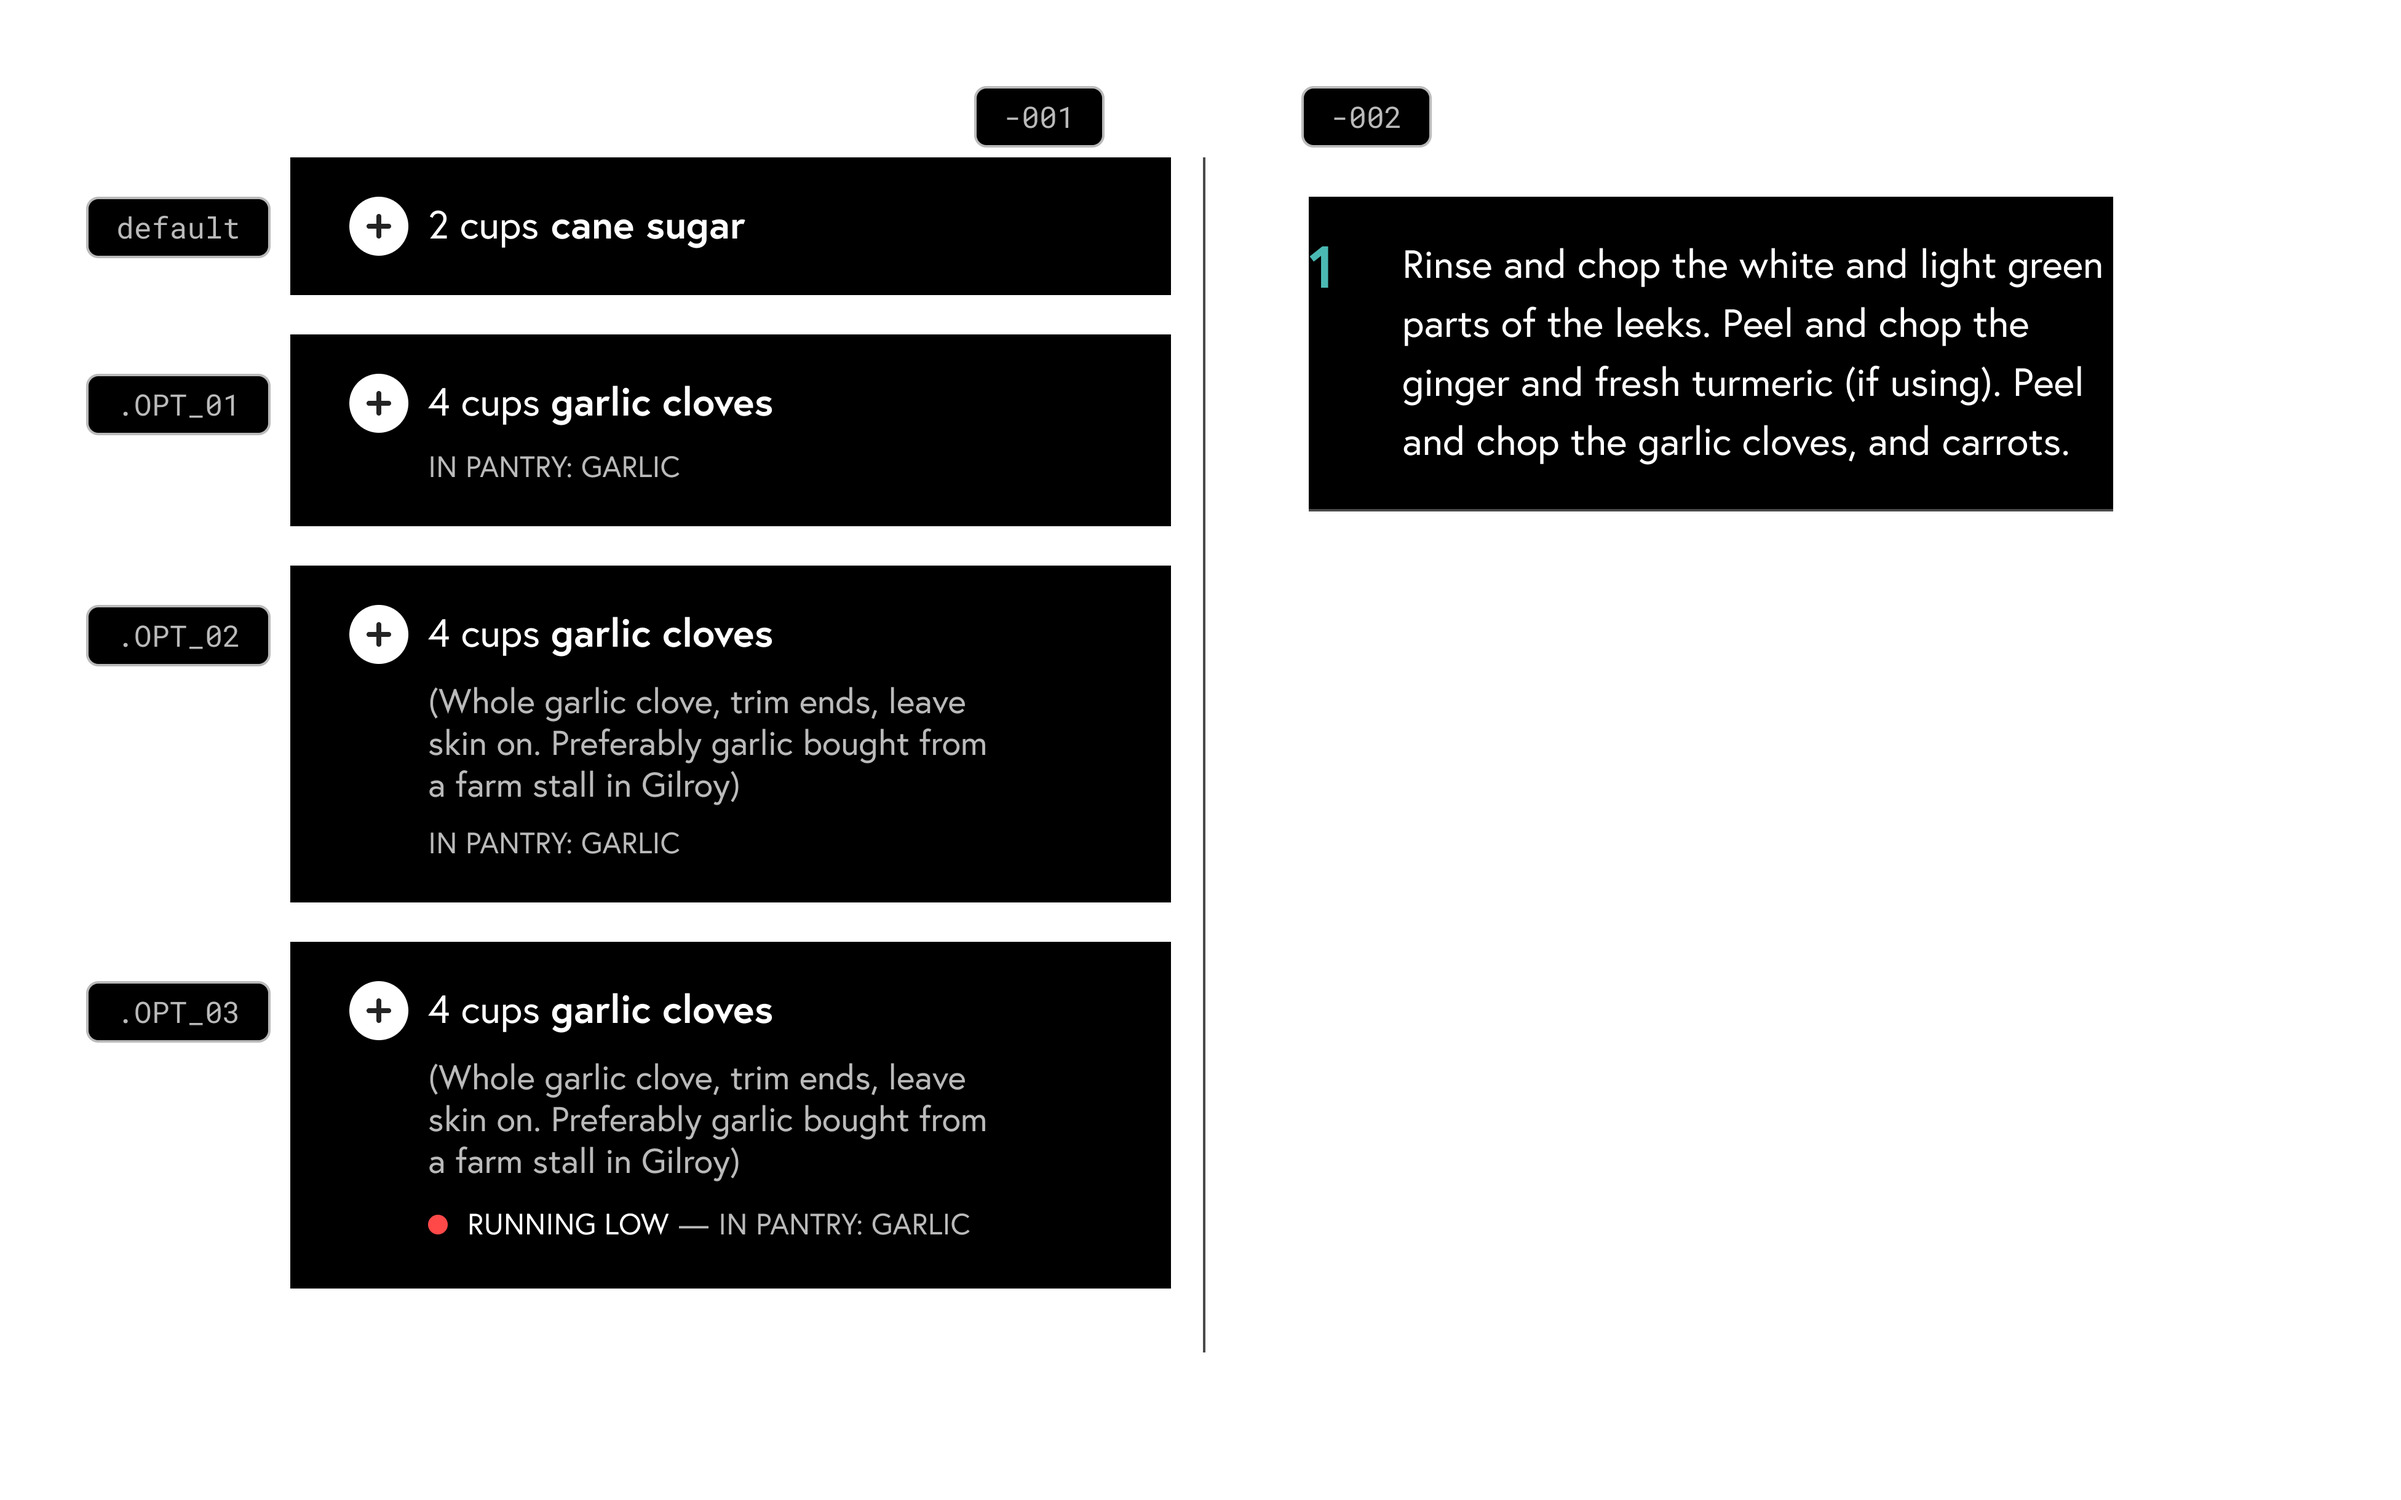
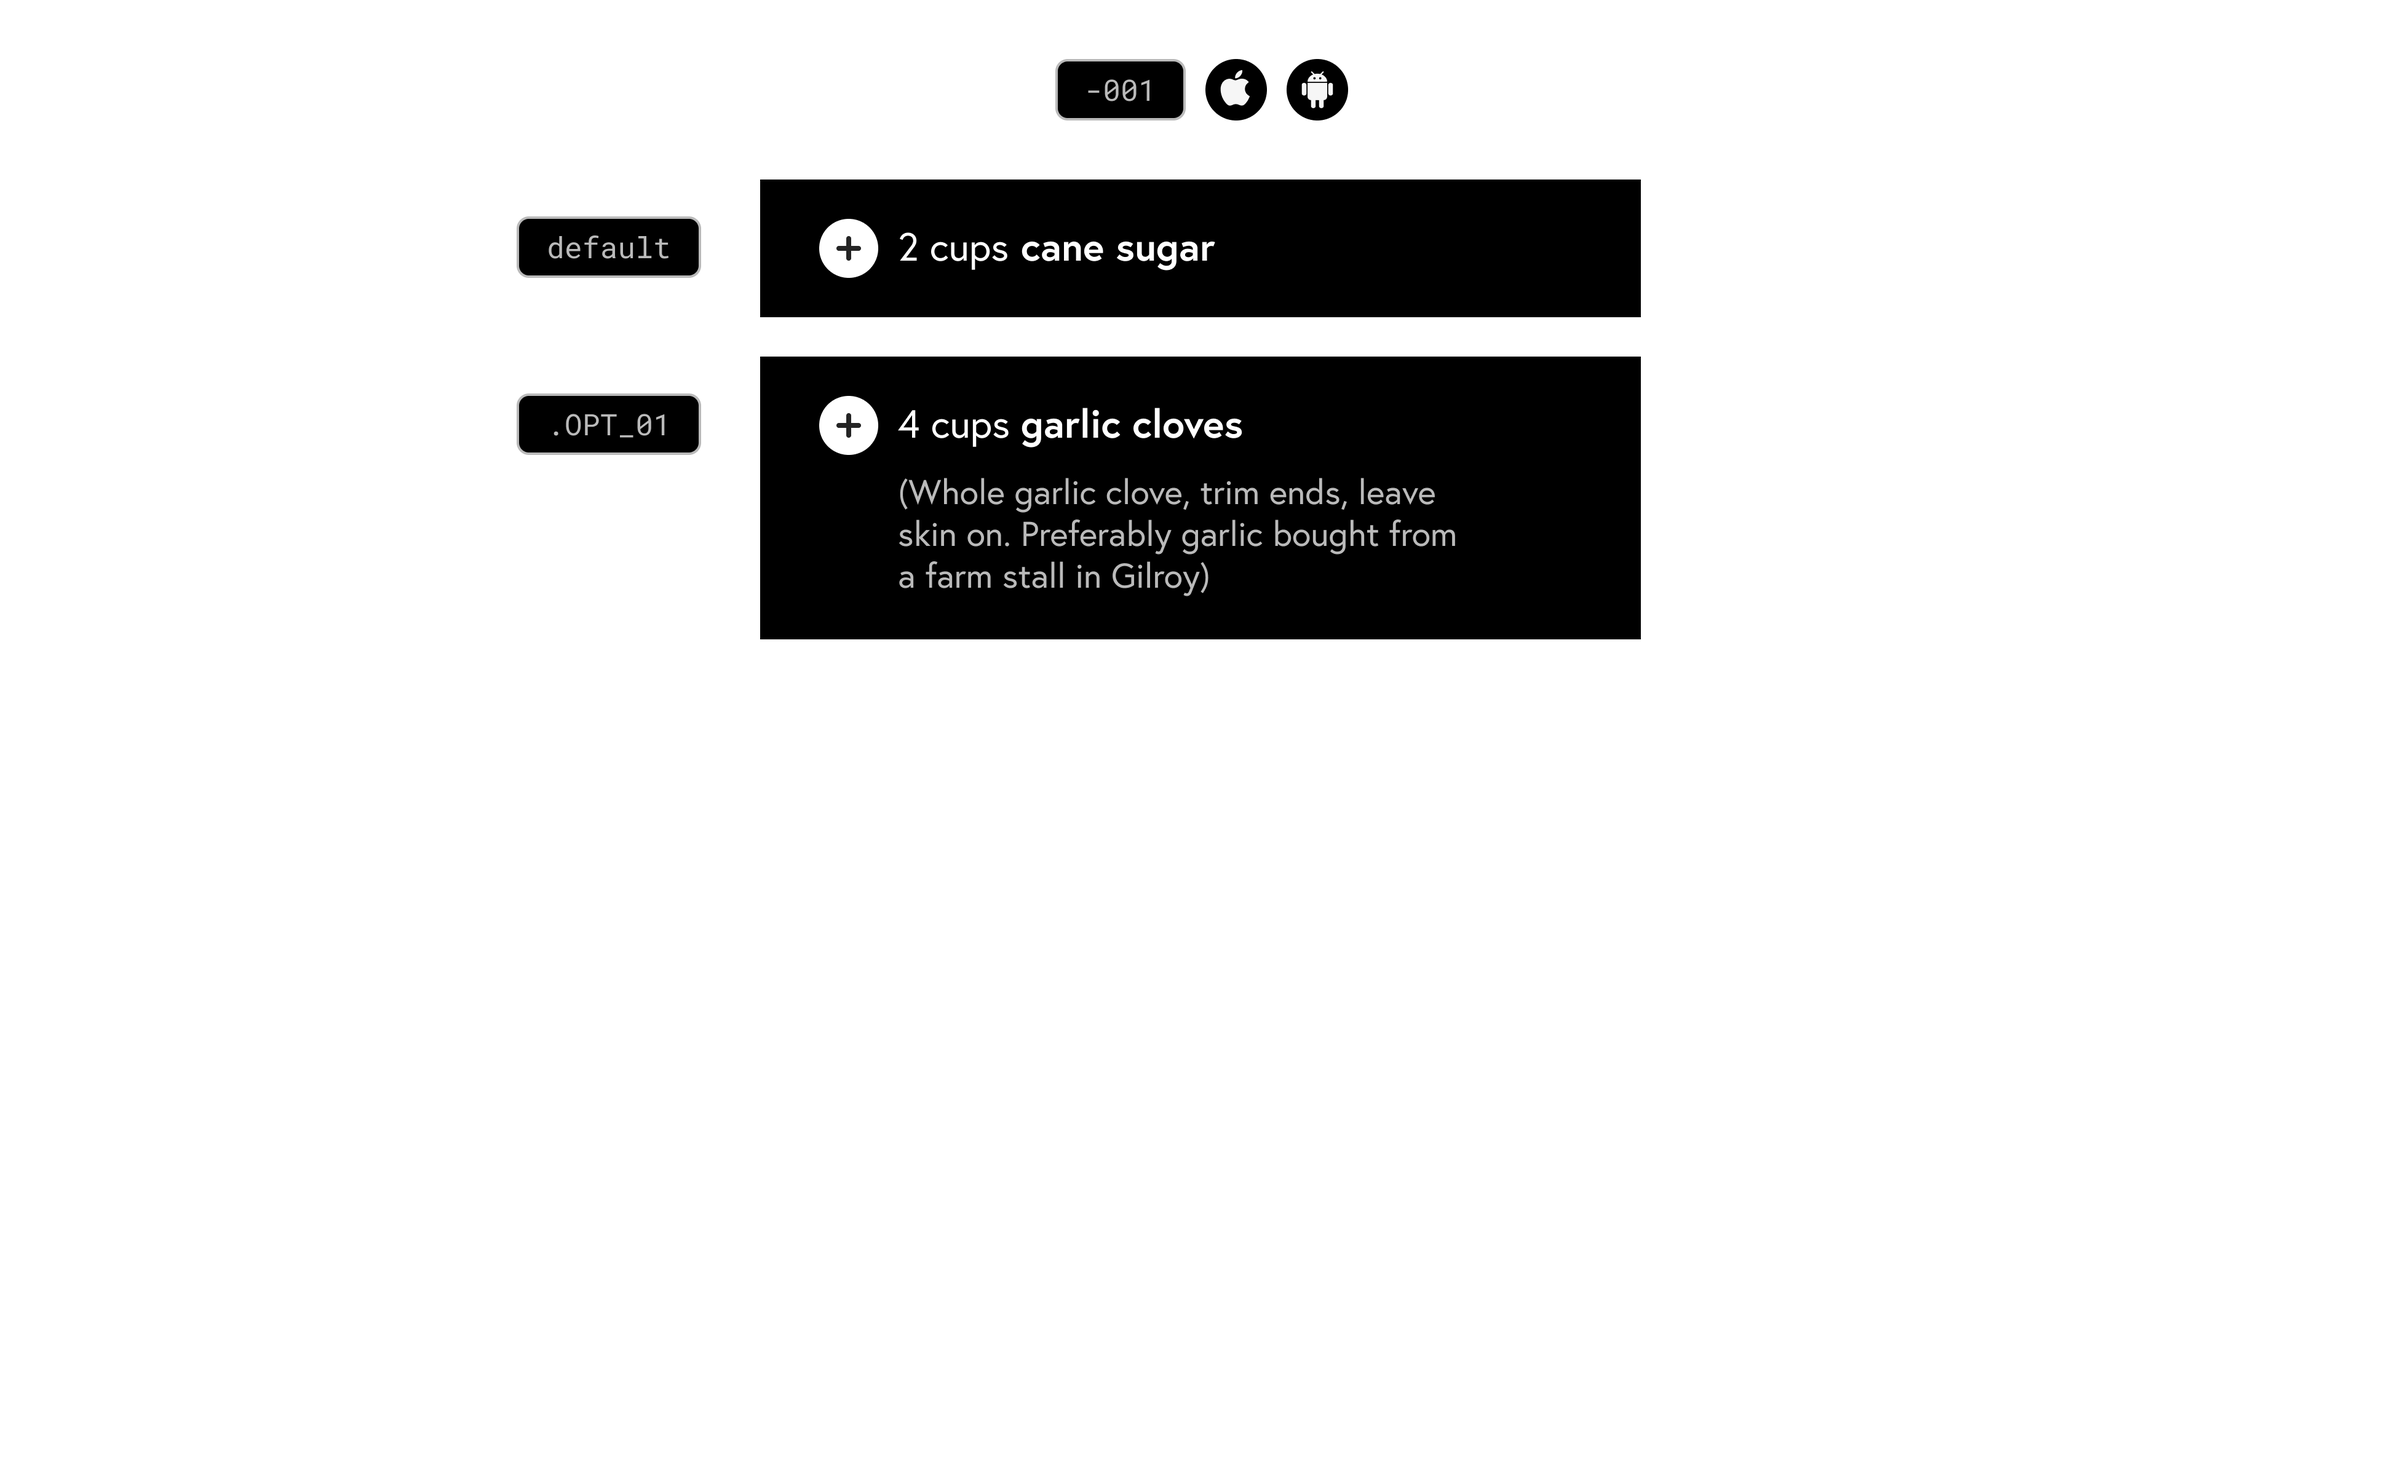
Fix to include pantry specific components

diff --git a/docs/core/200-farfalle/090-Patterns/260-List-Item.md b/docs/core/200-farfalle/090-Patterns/260-List-Item.md
@@ -42,29 +42,26 @@ nav_order: 260
 
 <!-- IF TABES ARE REQUIRED -->
 
-<!-- <div class="tabs">
-  <input type="radio" name="variants" id="variant_UID1" checked="checked">
-  <label for="variant_UID1">Variant_UID1</label>
+<div class="tabs">
+  <input type="radio" name="variants" id="001" checked="checked">
+  <label for="001">001 · Default</label>
   <div class="tab" markdown="1">
-![Preview]({{site.baseurl}}/assets/projects/{{page.project_id}}/images/YPL-DOC-FFL-P0013-YYY-preview_01.png){: .darkenabled}
-Variant_Preview_#1
+![Preview]({{site.baseurl}}/assets/projects/{{page.project_id}}/images/YPL-DOC-FFL-{{page.UID}}-variations_01.png){: .darkenabled .bgPattern_01}
   </div>
-  <input type="radio" name="variants" id="variant_UID2">
-  <label for="variant_UID2">Variant_UID2</label>
+  <input type="radio" name="variants" id="Android-001">
+  <label for="Android-001">001 · Pantry</label>
   <div class="tab" markdown="1">
-![Preview]({{site.baseurl}}/assets/projects/{{page.project_id}}/images/YPL-DOC-FFL-P0013-YYY-preview_02.png){: .darkenabled}
-Variant_Preview_#2
+![Preview]({{site.baseurl}}/assets/projects/{{page.project_id}}/images/YPL-DOC-FFL-{{page.UID}}-variations_02.png){: .darkenabled .bgPattern_01}
   </div>
-  <input type="radio" name="variants" id="variant_UID3">
-  <label for="variant_UID3">Variant_UID3</label>
+  <input type="radio" name="variants" id="002">
+  <label for="002">002</label>
   <div class="tab" markdown="1">
-![Preview]({{site.baseurl}}/assets/projects/{{page.project_id}}/images/YPL-DOC-FFL-P0013-YYY-preview_03.png){: .darkenabled}
-Variant_Preview_#3
+![Preview]({{site.baseurl}}/assets/projects/{{page.project_id}}/images/YPL-DOC-FFL-{{page.UID}}-variations_03.png){: .darkenabled .bgPattern_01}
   </div>  
-</div> -->
+</div>
 
 
-![Variations]({{ site.baseurl }}/assets/projects/{{ page.project_id }}/images/YPL-DOC-{{ page.project_id }}-{{ page.UID }}-variations_01.png){: .darkenabled .bgPattern_01}
+<!-- ![Variations]({{ site.baseurl }}/assets/projects/{{ page.project_id }}/images/YPL-DOC-{{ page.project_id }}-{{ page.UID }}-variations_01.png){: .darkenabled .bgPattern_01} -->
 <!-- ![Variations]({{site.baseurl}}/assets/projects/{{page.project_id}}/images/YPL-DOC-imgPlaceholder-Full.png){: .darkenabled} -->
 
 
@@ -79,23 +76,18 @@ Variant_Preview_#3
   </thead>
   <tbody>
     <tr>
-      <td><code>-001</code></td>
+      <td><code>-001</code><code>-001.OPT_01</code></td>
       <td>Default</td>
       <td>Lorem ipsum dolar sit amet.</td>
     </tr>   
     <tr>
-      <td><code>-001.OPT_001</code></td>
+      <td><code>-001.OPT_P</code><code>-001.OPT_S</code></td>
       <td>Show ingredients in pantry</td>
       <td>Lorem ipsum dolar sit amet.</td>
     </tr>
     <tr>
-      <td><code>-001.OPT_002</code></td>
-      <td>Show ingredient description</td>
-      <td>Lorem ipsum dolar sit amet.</td>
-    </tr>
-    <tr>
-      <td><code>-001.OPT_003</code></td>
-      <td>Show low ingredient warning</td>
+      <td><code>-001.OPT_01_P</code><code>-001.OPT_01_S</code></td>
+      <td>Show ingredients in pantry with a description</td>
       <td>Lorem ipsum dolar sit amet.</td>
     </tr>
     <tr>
@@ -174,7 +166,7 @@ Variant_Preview_#3
 ### Options
 
 
-![Variations]({{ site.baseurl }}/assets/projects/{{ page.project_id }}/images/YPL-DOC-{{ page.project_id }}-{{ page.UID }}-variations_01.png){: .darkenabled .bgPattern_01}
+![Variations]({{ site.baseurl }}/assets/projects/{{ page.project_id }}/images/YPL-DOC-{{ page.project_id }}-{{ page.UID }}-variations_02.png){: .darkenabled .bgPattern_01}
 <!-- ![Variations]({{site.baseurl}}/assets/projects/{{page.project_id}}/images/YPL-DOC-imgPlaceholder-Full.png){: .darkenabled} -->
 
 
